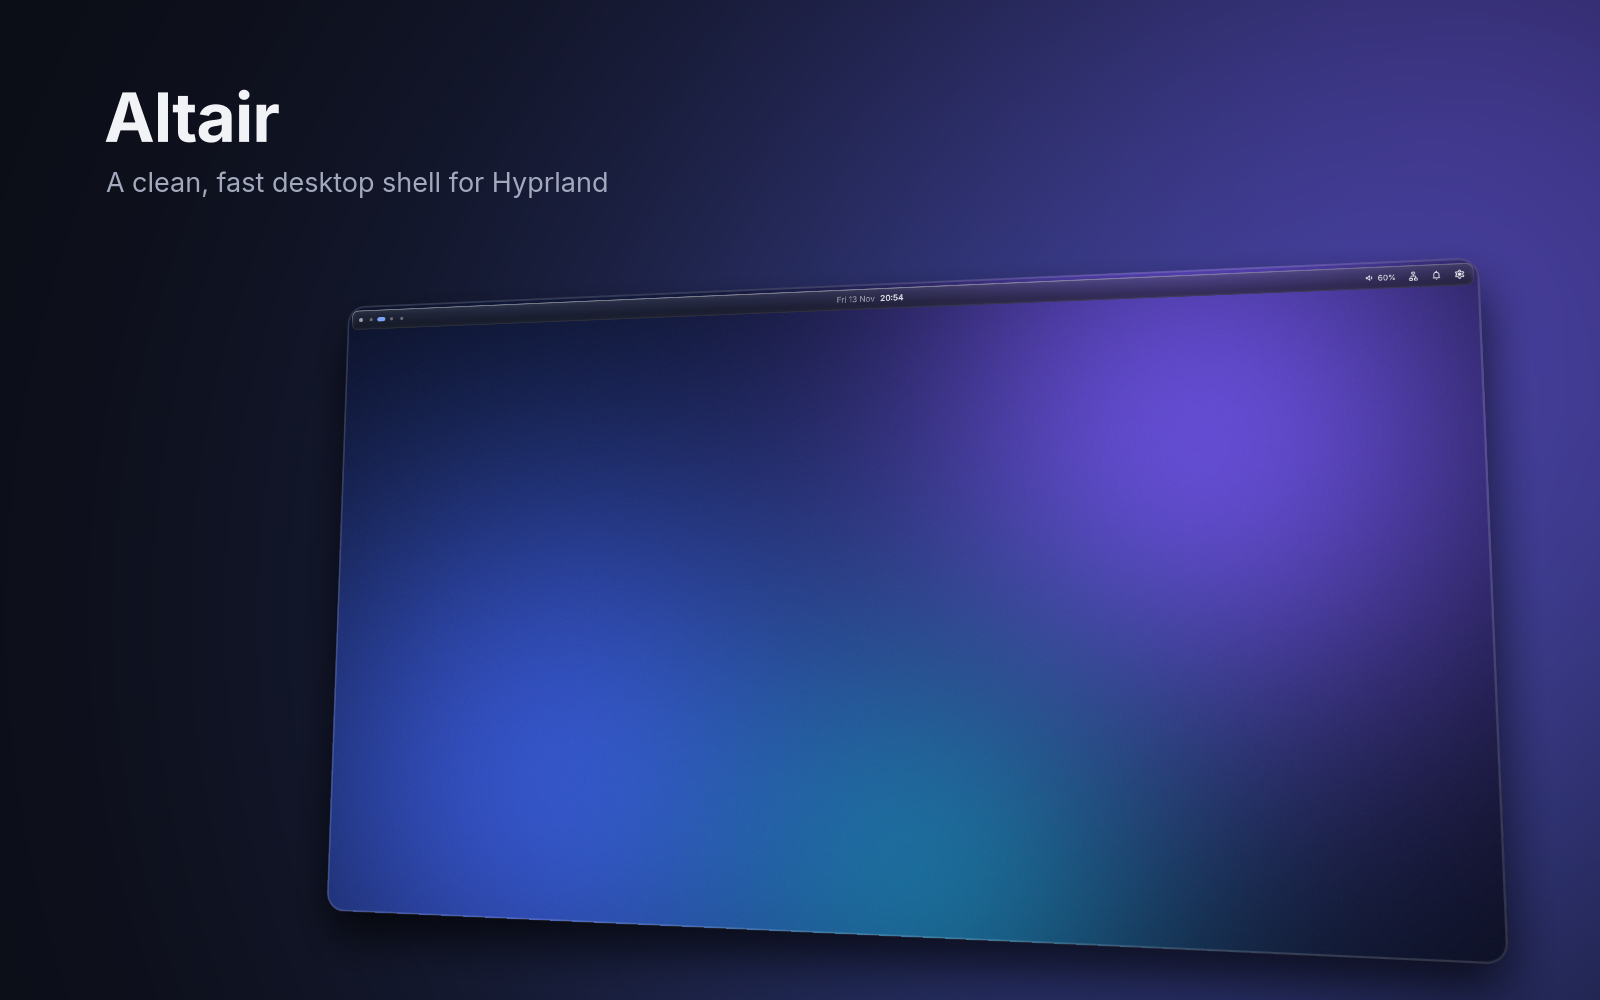
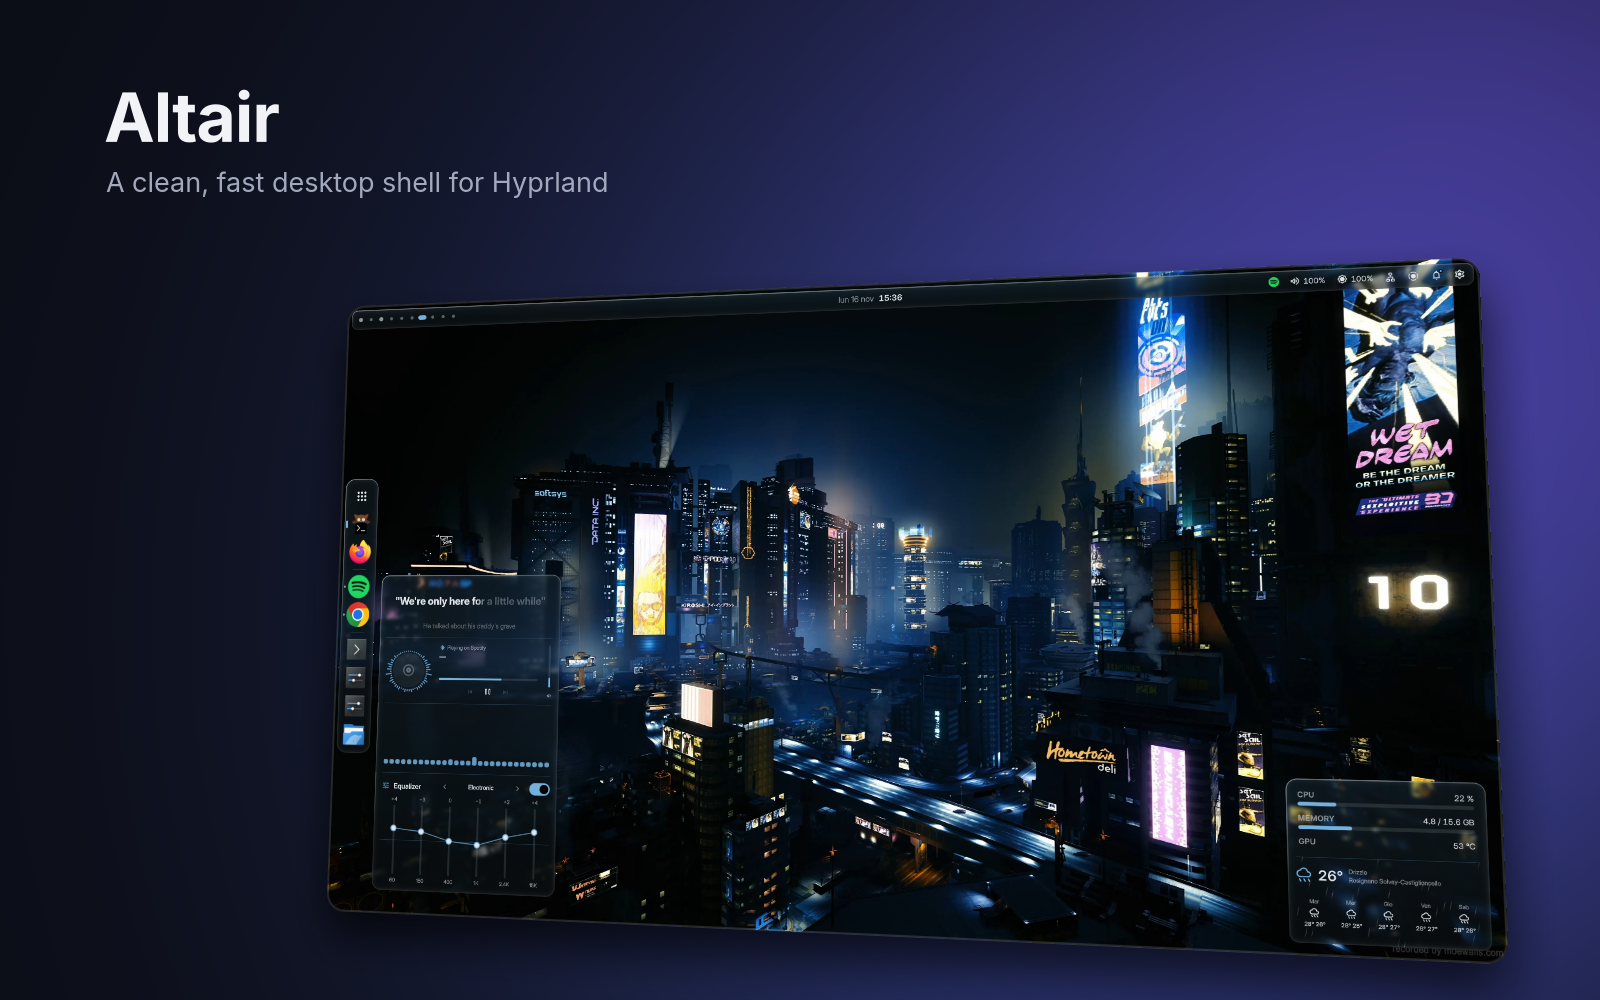
docs: new screenshots for v0.2

diff --git a/CREDITS.md b/CREDITS.md
@@ -30,10 +30,16 @@ same licence as Altair (GPL-3.0-or-later). install.sh scales them to
 
 ### Screenshots (`docs/screenshots/`)
 
-- The soft colour wallpapers in the screenshots were generated for Altair;
-  same licence as Altair.
-- "Next" wallpaper by Krystian Zajdel for KDE, CC-BY-SA-4.0, visible in the
-  wallpaper picker screenshot.
+The live wallpapers in the screenshots are not part of Altair and are not
+in this repository; they belong to their owners and were downloaded from
+[MoeWalls](https://moewalls.com):
+
+- "City at Night" (desktop) and "Lucyna Space Station" (wallpaper picker):
+  art from *Cyberpunk 2077* / *Cyberpunk: Edgerunners*, © CD PROJEKT RED.
+- "Forest Pines" (Settings).
+- The other thumbnails in the wallpaper picker are from the developer's own
+  wallpaper folder.
+- The launcher screenshot uses Altair's own "Aurora" wallpaper.
 
 If you add an asset to the repository (an image, a sound, a font), it must
 have a free licence and be listed here.
